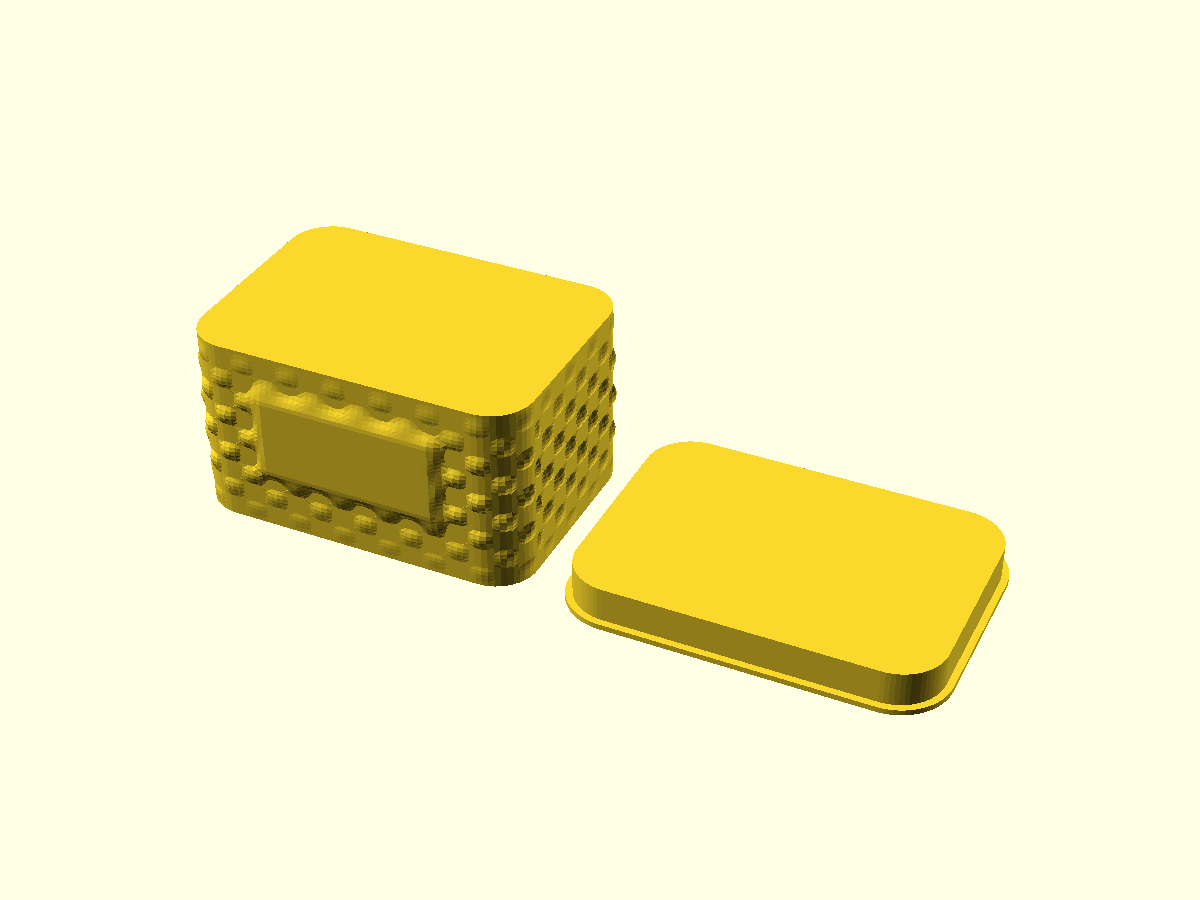
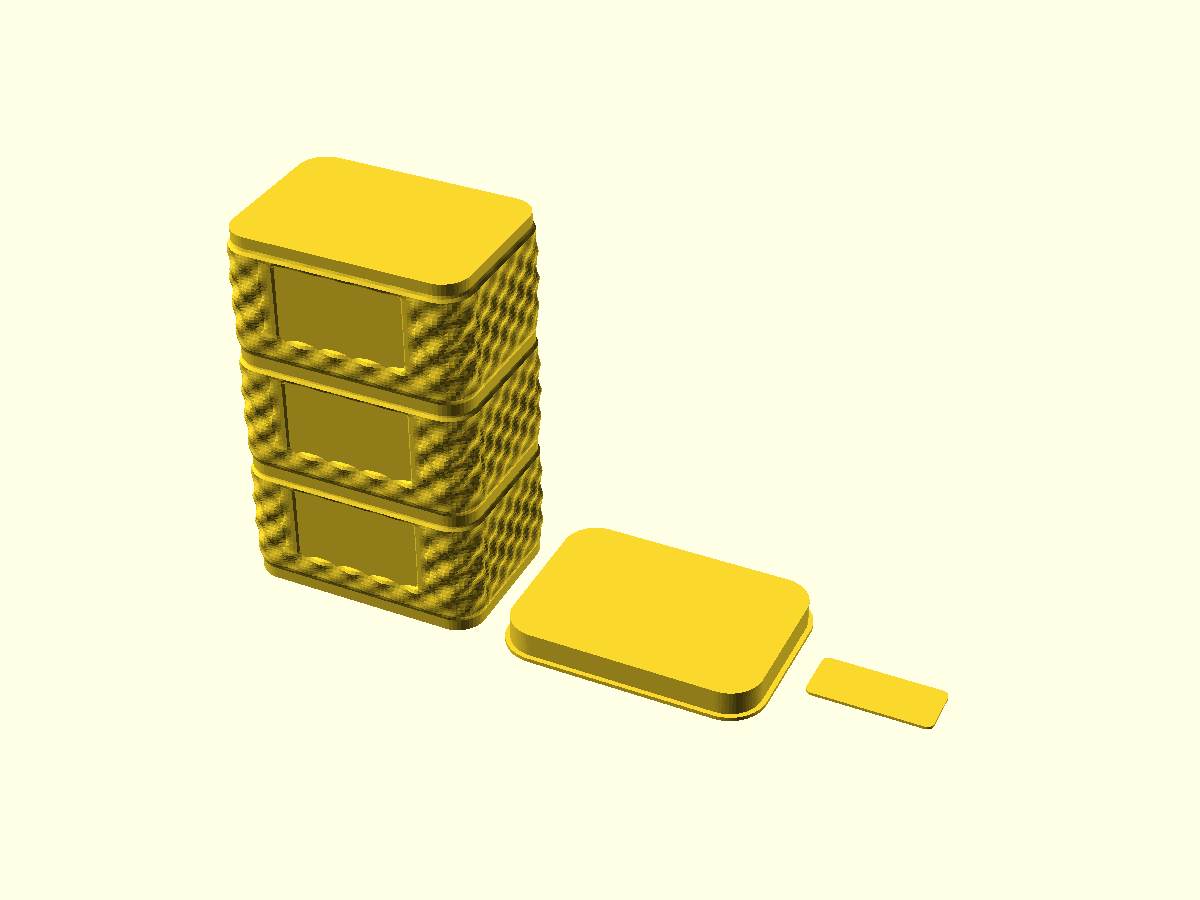
feat(container): nesting stack for stackable box
Box top now has a smooth recess (stack_inset over the top stack_depth)
and the box bottom is inset stack_inset - stack_fit over the lower
stack_depth, so the next box sinks 5 mm (stack_depth, adjustable) into
the recess and rests on its ledge with stack_fit side clearance.

The op-art pattern is suppressed in both stacking zones to keep the
fit surfaces smooth. The default both-view renders a stack of
stack_count boxes. Also fixes the header CLI example: -D part=box must
be quoted (-D 'part="box"') or OpenSCAD ignores it and renders the
whole scene.

Changed region(s): [[0.1542, 0.1556, 0.8633, 0.8089]]

diff --git a/docs/memory/archive/2026-09-03-stackable-box-nesting-fit.md b/docs/memory/archive/2026-09-03-stackable-box-nesting-fit.md
@@ -1,0 +1,17 @@
+---
+topic: "Stackable box nesting fit: insert inset = recess inset - fit"
+importance: medium
+category: pattern
+tags: [openscad, stacking, vase-mode, parametrization]
+created: 2026-09-03T18:24:18Z
+model: z-ai/glm-5.3-flash
+---
+
+Vase-mode nesting in stackable-box.scad: the top recess is inset
+`stack_inset` over `stack_depth`; the bottom insert is inset
+`stack_inset - stack_fit`. The insert must be inset LESS than the recess,
+or the upper box falls through the ledge instead of resting on it. Suppress
+the op-art pattern in both zones (`base_zone`, `neck_zone`) so the fit
+surfaces stay smooth; pattern waves near flat edges otherwise reach ~0.3 mm
+and can eat the 0.4 mm clearance. CLI `-D part=box` must be quoted:
+`-D 'part="box"'`.

diff --git a/docs/memory/INDEX.md b/docs/memory/INDEX.md
@@ -10,3 +10,4 @@
 | Fast preview workflow: $preview guard + FULL=1 render mode | pattern | high | openscad, preview, render-scripts, performance |  | archive/2026-08-29-fast-preview-workflow.md |
 | BOSL2 adopted for skadis-generator chamfers | decision | high | openscad, bosl2, chamfer, offset-sweep, performance |  | archive/2026-08-29-bosl2-chamfer-refactor.md |
 | chamfer_cylinder_mask only correct at 45 degrees | warning | medium | openscad, bosl2, chamfer, masks |  | archive/2026-08-29-chamfer-cylinder-mask-45deg.md |
+| Stackable box nesting fit: insert inset = recess inset - fit | pattern | medium | openscad, stacking, vase-mode, parametrization |  | archive/2026-09-03-stackable-box-nesting-fit.md |
